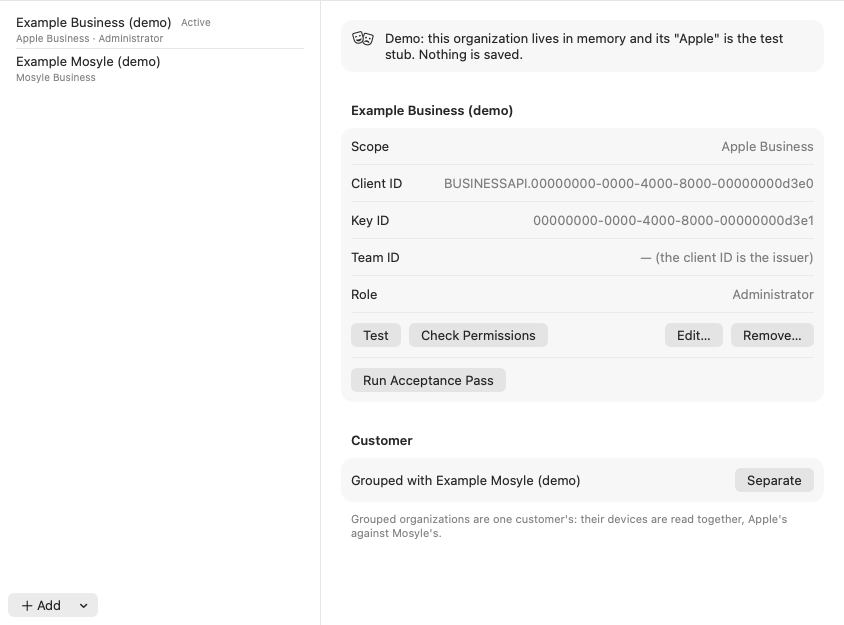
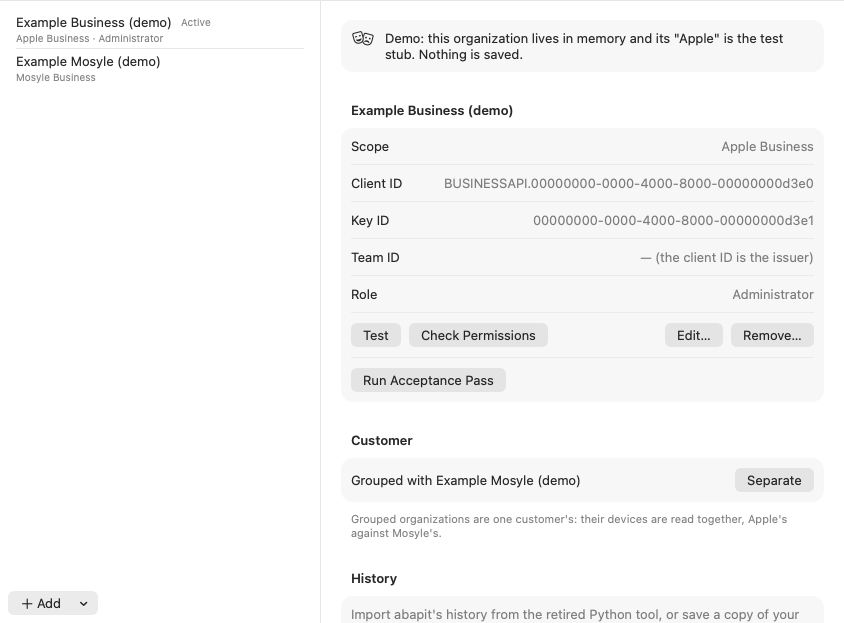
Screenshots: Activity's Changes pane, and Settings with its History group
From CI run 44912685498 (the snapshots artifact).

diff --git a/docs/domains/history.md b/docs/domains/history.md
@@ -415,6 +415,8 @@ own layout; `ABAPIT_PANE=changes` opens it for the screenshot run (`scripts/scre
   snapshots stay unless deleted and that deleting them can't be undone (no copy is kept). The history is deleted first (`removeAll(org:)`,
   which also clears the org's findings), so a history that can't be deleted (a newer version's file, one that won't open) refuses the
   removal and leaves the org, its key and its history as they were. Without a yes nothing of the history is touched.
+- **Screenshots**: `docs/screenshots/changes.png` (CI's `changes` run, over the demo's snapshots) and the refreshed `settings.png`
+  (PR #36's History group). The demo's first read waits for its seeding (`beforeFirstLoad`): the first picture drew one snapshot.
 - **The demo** (`DemoHistory`, DEBUG only): three fake snapshots of the demo org, `DEMOCHG…` serials and `example.com` addresses, so the
   screen and its screenshot draw a real diff: one change, one partial resource (devices, cut at the page limit, two removals held back),
   one resource not read (People refused), AppleCare read only in the newest.

diff --git a/README.md b/README.md
@@ -40,6 +40,8 @@ Drawn by CI from the built-in demo organization, which holds no real data; the f
 
 ![Apple against Mosyle](docs/screenshots/reconciliation.png)
 
+![Changes between two snapshots](docs/screenshots/changes.png)
+
 ![Settings](docs/screenshots/settings.png)
 
 ## How it's built to be safe
